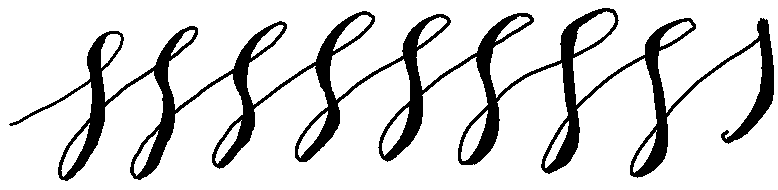
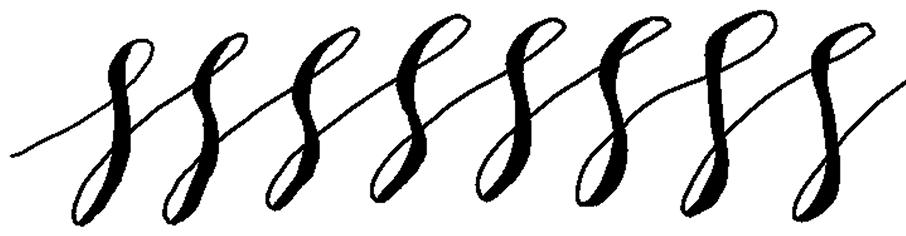
dec 3 montblanc

Changed region(s): [[0.0308, 0.0263, 1.0, 0.9737], [0.0, 0.6316, 0.0308, 0.6842]]

diff --git a/montblanc.html b/montblanc.html
@@ -138,9 +138,13 @@
             <section class="writeup-section grid-col-4of12">
                 <h2 class="section-title">Type</h2>
                 <p>
-                    Ligatures and handcrafted letterforms play a central role. By mimicking the organic flow and variation of handwritten strokes, typography becomes a bridge between analog craft and digital clarity.            </p>
+                    We wanted the type to feel handwritten but still readable, so we began by writing on paper. This let us capture the tiny imperfections, like the tremble in a line or the natural taper of a stroke. The result is a beautiful ink-led experience that became our Signature Headers.
+                </p>
                 <p>
-                    Designing letterforms on paper allowed us to retain microscopic imperfections—the slight tremble of a line, the uneven taper. These qualities create a writing system that feels authentically “written” instead of generated.
+                    Our Headers use a font with randomized ligatures that give off a realistic, handcrafted look.
+                </p>
+                <p>
+                    Montblanc's default type keeps body text and labels redable and consistent.
                 </p>
             </section>
 
@@ -185,13 +189,10 @@
                 <div class="vertical-stack">
                     <h2 class="section-title">The Line</h2>
                     <p>
-                        The line embraces the craft and DNA of writing, with all its perfections and imperfections.
-                    </p>
-                    <p>
-                        For over a hundred years, the figure 8 has been used by trained calligraphers to test the nibs at the start of every pen's journey. We've brought this iconic gesture to the experience as a way to introduce users to the feel of the device.
+                        The line celebrates the craft and DNA of writing. The figure 8, used by calligraphers for over a hundred years to test nibs, is incorporated into the onboarding flow to introduce users to the feel of the device.
                     </p>
                 
-                    <img src="media/mb/img/line_2.png">
+                    <!--<img src="media/mb/img/line_2.png">-->
                     <img src="media/mb/img/line_3.png">
                 </div>
             </section>
@@ -214,7 +215,7 @@
             <div class="vertical-stack">
                 <h2 class="section-title">Buttons & Links</h2>
                 <p>
-                    UI elements used repeatedly—such as pagination indicators or highlight states—carry subtle stroke variations to emulate ink pressure. Starting points, end points, and stroke widths adjust organically, reinforcing the tactile feel of handwriting throughout the interface.
+                    UI elements used repeatedly, such as pagination indicators or highlight states, carry subtle stroke variations to mimic ink pressure. Starting points, end points, and stroke widths adjust organically, reinforcing the tactile feel of handwriting throughout the interface.
                 </p>
                 <p>
                     This creates a system where even functional UI elements carry the warmth and rhythm of pen-on-paper writing.
@@ -241,7 +242,7 @@
         <section class="writeup-section grid-col-4of12">
             <h2 class="section-title">Iconography</h2>
             <p>
-                Our icons reflect the essence of the line — capturing subtle imperfections from pen pressure and angle. While they nod to the tactile nature of handwriting, they remain clean and modern, balancing handcrafted warmth with UI clarity.
+                Our icons reflect the essence of the line, capturing subtle imperfections from pen pressure and angle. While they nod to the tactile nature of handwriting, they remain clean and modern, balancing handcrafted warmth with UI clarity.
             </p>
         </section>
 
@@ -256,7 +257,7 @@
         <section class="writeup-section grid-col-4of12">
             <h2 class="section-title">Colour</h2>
             <p>
-                Our colour system is optimized for e-ink, using a refined grayscale palette to ensure clarity, contrast, and a quiet, premium feel.
+                Our colour system is optimized for e-ink, using a refined grayscale palette that ensures contrast while mainteining a quiet, premium feel.
             </p>
         </section>
 
@@ -271,7 +272,7 @@
         <section class="writeup-section grid-col-4of12">
             <h2 class="section-title">Layouts & Grids</h2>
             <p>
-                The layout takes inspiration from Montblanc's symbolic 4810m height — using a 4/8/10 column grid to subtly embed the brand into the interface structure.
+                The layout grid takes inspiration from Montblanc's symbolic height of 4810m, embedding a subtle brand signature into the structure of the interface.
             </p>
         </section>
 
@@ -329,7 +330,7 @@
                 We defined the interaction model through research into existing e-ink devices and real-world handwriting behaviours.
             </p>
             <p>
-                The focus: an intuitive, unobtrusive flow that keeps writing at the centre. Interactions feel intentional yet effortless—always supporting the user's creative or practical task.
+                The focus: an intuitive, unobtrusive flow that keeps writing at the centre. Interactions feel intentional yet effortless, always supporting the user's creative or practical task.
             </p>
         </section>
 
@@ -345,10 +346,10 @@
             <section class="writeup-section grid-col-5of12">
                 <h2 class="section-title">Onboarding Flow</h2>
                 <p>
-                    The onboarding experience mixes Montblanc's storytelling with light, playful moments. Instead of overwhelming users, it gently walks them through the core features — from how the writing feels to small nods to Montblanc's craft, like nib-testing gestures and pressure-sensitive strokes.
+                    The onboarding experience mixes Montblanc's storytelling with light, playful moments. Instead of overwhelming users, it gently walks them through the core features, from how the writing feels to small nods to Montblanc's craft, like nib-testing gestures and pressure-sensitive strokes.
                 </p>
                 <p>
-                    After lots of testing around flow, timing, and clarity, the walkthrough became both easy to follow and familiar right from the start.
+                    After thorough testing around flow, timing, and clarity, the walkthrough became both easy to follow and familiar right from the start.
                 </p>
                 <p>
                     The Montblanc emblem acts as a progress indicator, revealing itself step by step, creating a sense of ownership and connection to the brand and device.
@@ -424,7 +425,7 @@
         <section class="writeup-section grid-col-4of12">
             <h2 class="section-title">Home</h2>
             <p>
-                The Home screen brings Montblanc's craftsmanship into a calm andminimal environment. Hand-drawn icons and fine linework add a subtle sense of tactility without distracting from the content. The layout stays open so notebooks, documents, and folders remain the clear focus.
+                The Home screen brings Montblanc's craftsmanship into a calm and minimal environment. Hand-drawn icons and fine linework add a subtle sense of tactility without distracting from the content. The layout stays open so notebooks, documents, and folders remain the clear focus.
             </p>
             <p>
                 A floating bottom toolbar provides the primary actions. When an item is selected, the toolbar intelligently shifts into contextual mode, revealing only the actions relevant to that selection. This approach keeps interactions simple and discoverable.
@@ -490,7 +491,7 @@
             </div>
             <div class="body">
                 <p>
-                    The result is a sleek, intuitive device that preserves Montblanc's craftsmanship while embracing modern digital technology, setting a new benchmark in luxury digital writing. It embodies Montblanc's philosophy that everyone can leave their mark, offering the next generation the same tactile precision and joy — now in a more seamless, digital form.
+                    The result is a sleek, intuitive device that preserves Montblanc's craftsmanship while embracing modern digital technology, setting a new benchmark in luxury digital writing. It embodies Montblanc's philosophy that everyone can leave their mark, offering the next generation the same tactile precision and joy.
                 </p>  
             </div>
         </div>
